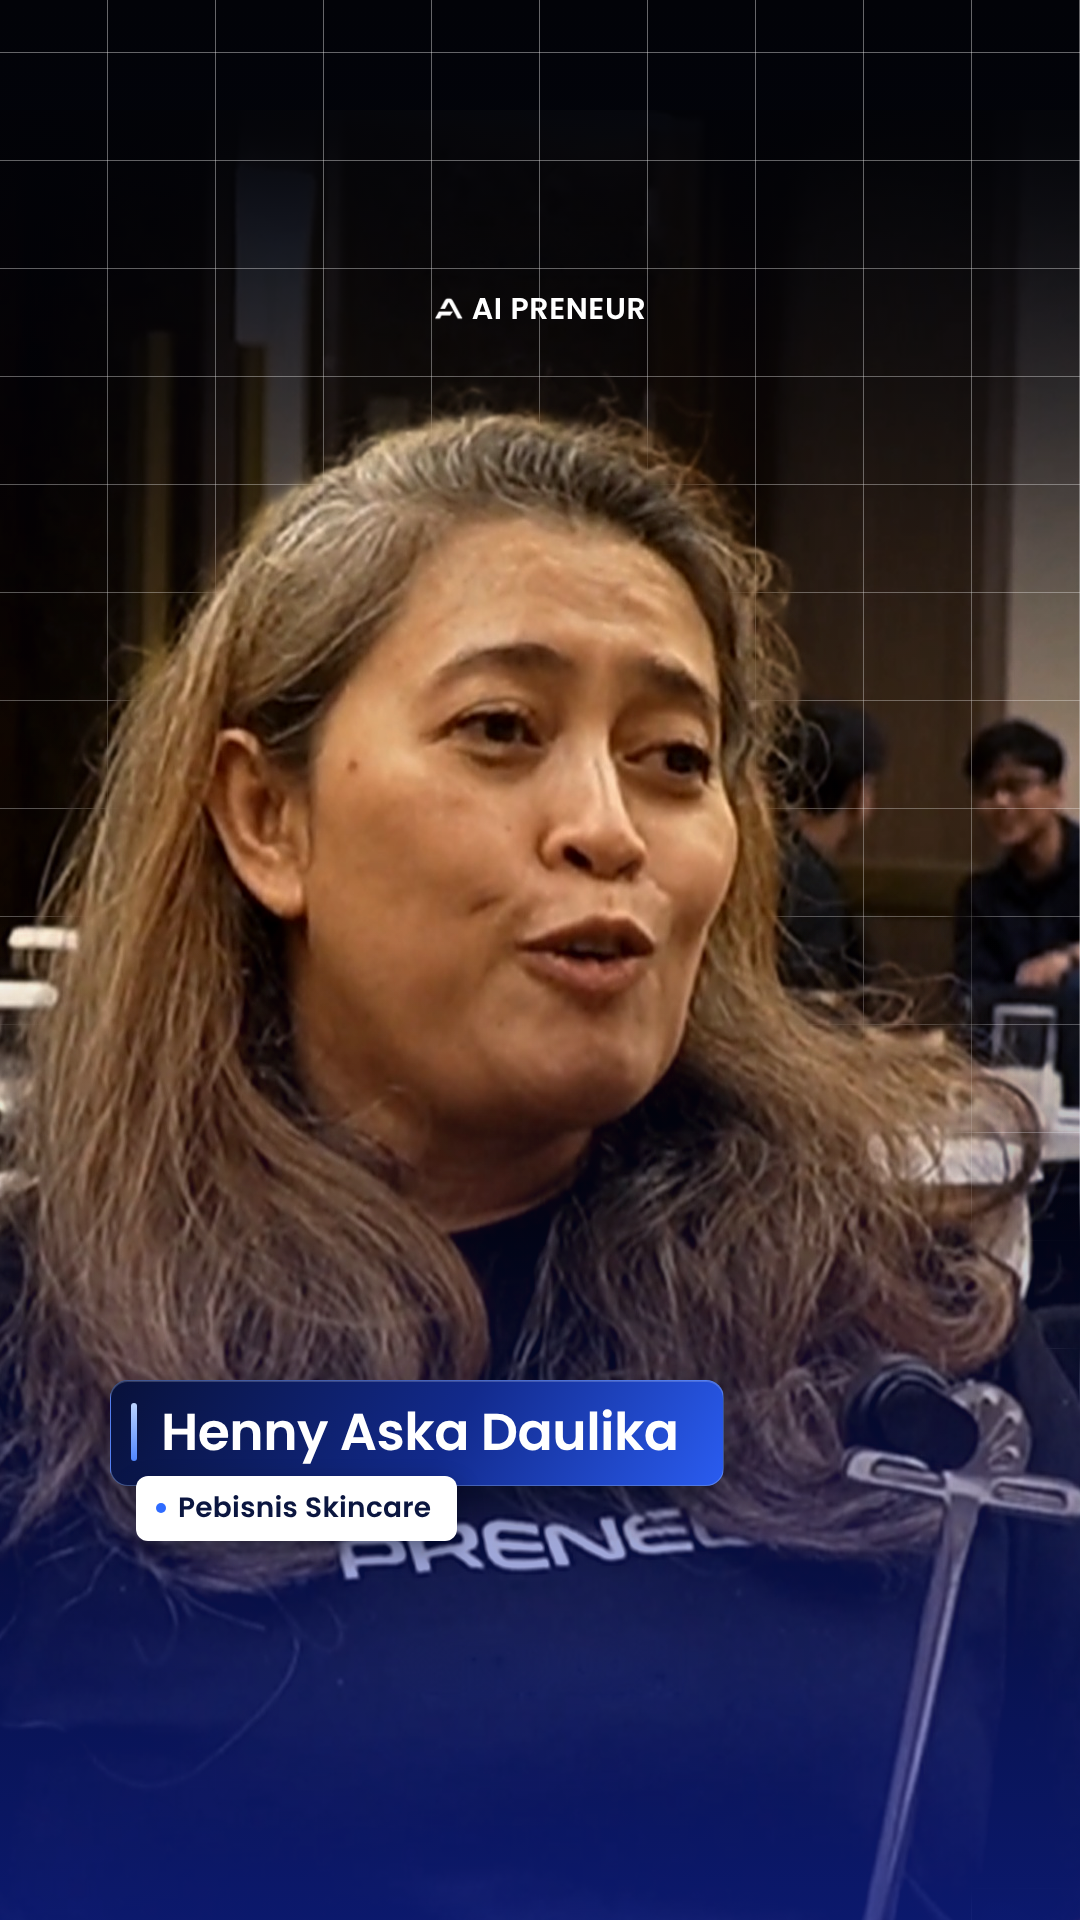
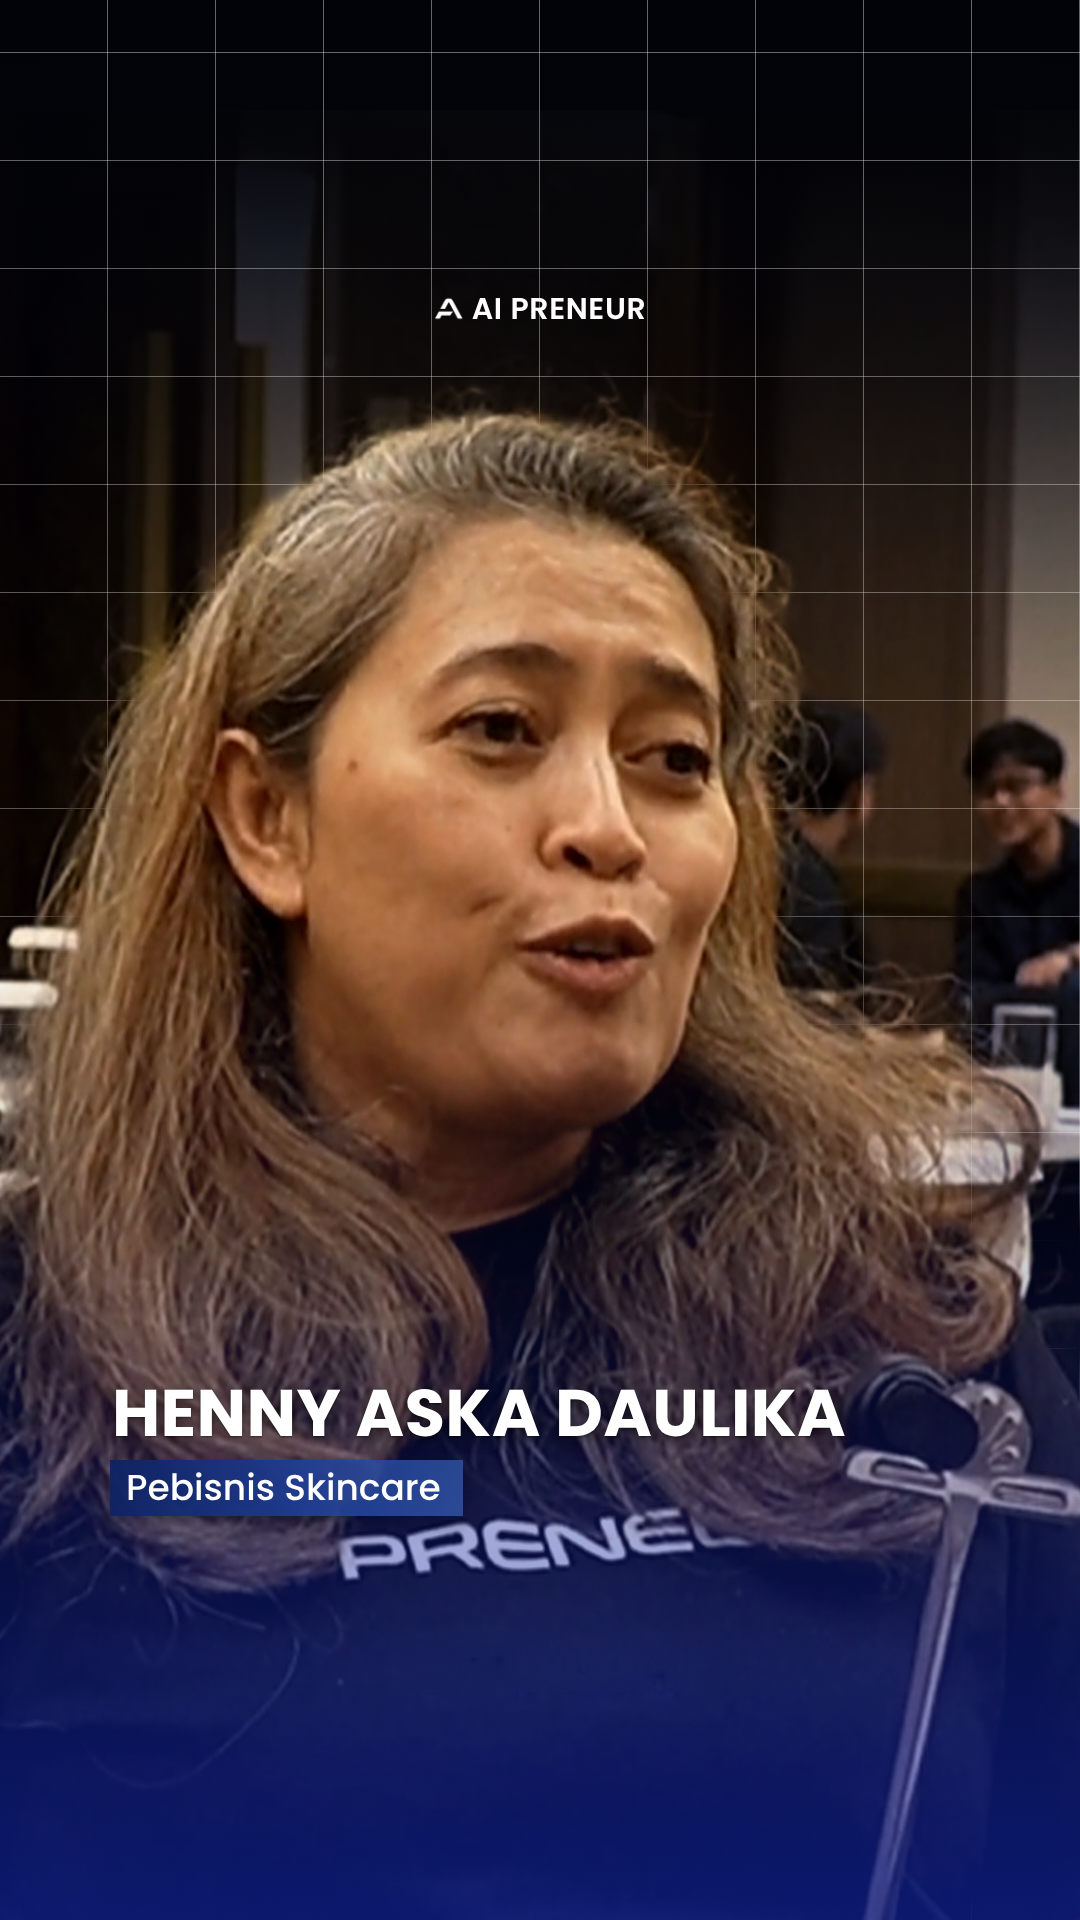
Thumbnail: name tag in bold-caps + gradient bar style (old card kept as thumb_v1_card.html)
Claude-Session: https://claude.ai/code/session_01FYKeHQysKjzco9uu7WCLcY

Changed region(s): [[0.0917, 0.7188, 0.7944, 0.8125]]

diff --git a/thumbnail-name-card/thumb_v1_card.html b/thumbnail-name-card/thumb_v1_card.html
@@ -1,0 +1,52 @@
+<!doctype html><html><head><meta charset="utf-8">
+<style>
+@font-face{font-family:Poppins;src:url(fonts/poppins400.woff2);font-weight:400}
+@font-face{font-family:Poppins;src:url(fonts/poppins500.woff2);font-weight:500}
+@font-face{font-family:Poppins;src:url(fonts/poppins600.woff2);font-weight:600}
+@font-face{font-family:Poppins;src:url(fonts/poppins700.woff2);font-weight:700}
+:root{--navy:#070d26;--navy2:#0b1640;--blue:#2f6bff;--sky:#9cc0ff}
+*{margin:0;box-sizing:border-box}
+body{width:1080px;height:1920px;overflow:hidden;background:var(--navy);font-family:Poppins,sans-serif}
+.stage{position:relative;width:1080px;height:1920px;overflow:hidden;background:var(--navy)}
+.photo{position:absolute;left:-54px;top:110px;width:1188px;filter:saturate(.82) contrast(1.06) brightness(.96)}
+/* cool navy grade over the warm room */
+.tint{position:absolute;inset:0;background:#1a2f6e;mix-blend-mode:soft-light;opacity:.55}
+.person{position:absolute;left:-54px;top:110px;width:1188px;filter:saturate(.82) contrast(1.06) brightness(.98)}
+/* top: black fade over the room only */
+.top{position:absolute;inset:0;background:
+  linear-gradient(180deg,#020308 0%,rgba(2,3,8,.92) 7%,rgba(2,3,10,.62) 16%,rgba(2,3,10,.3) 28%,rgba(2,3,10,.12) 40%,rgba(2,3,10,.12) 100%),
+  radial-gradient(120% 70% at 50% 45%,rgba(2,4,14,0) 55%,rgba(2,4,14,.45) 100%)}
+/* grid sits behind the person */
+.grid{position:absolute;inset:0;
+  background-image:linear-gradient(rgba(255,255,255,.42) 1.5px,transparent 1.5px),linear-gradient(90deg,rgba(255,255,255,.42) 1.5px,transparent 1.5px);
+  background-size:108px 108px;background-position:-1px 52px;
+  -webkit-mask-image:linear-gradient(180deg,rgba(0,0,0,.95) 0%,rgba(0,0,0,.75) 40%,rgba(0,0,0,.7) 100%)}
+/* bottom: see-through royal blue, strongest at the bottom edge, gone by mid-frame */
+.bottom{position:absolute;inset:0;background:
+  linear-gradient(0deg,rgba(18,40,175,.62) 0%,rgba(18,40,175,.48) 12%,rgba(14,32,150,.3) 26%,rgba(10,24,120,.14) 38%,rgba(8,18,90,0) 52%)}
+.logo{position:absolute;top:286px;left:0;right:0;display:flex;justify-content:center;align-items:center;gap:2px;
+  color:#fff;font-weight:600;font-size:30px;letter-spacing:.02em}
+.logo img{height:30px;margin-right:6px;filter:brightness(1.4)}
+.name{position:absolute;left:110px;top:1380px;display:flex;flex-direction:column;align-items:flex-start}
+.card{position:relative;padding:22px 44px 24px 50px;border-radius:18px;
+  background:linear-gradient(120deg,#08113a 0%,#122a8c 55%,#2a5cf0 100%);
+  border:1.5px solid rgba(156,192,255,.38);box-shadow:0 18px 40px rgba(2,6,22,.55),inset 0 1px 0 rgba(255,255,255,.18)}
+.card::before{content:"";position:absolute;left:20px;top:22px;bottom:24px;width:6px;border-radius:4px;background:linear-gradient(180deg,#bcd4ff,#4f86ff)}
+.card h1{font-weight:600;font-size:52px;line-height:1.12;color:#fff;letter-spacing:-.01em;white-space:nowrap}
+.role{margin:-10px 0 0 26px;position:relative;z-index:2;display:flex;align-items:center;gap:12px;
+  padding:11px 26px 12px 20px;border-radius:12px;background:#fff;box-shadow:0 10px 24px rgba(2,6,22,.45)}
+.role i{width:10px;height:10px;border-radius:50%;background:var(--blue)}
+.role span{font-weight:600;font-size:28px;color:#0b1640;letter-spacing:.01em}
+.nologo .logo{display:none}
+</style></head><body>
+<div class="stage" id="stage">
+  <img class="photo" src="photo_up.jpg">
+  <div class="tint"></div><div class="top"></div><div class="grid"></div>
+  <img class="person" src="person.png">
+  <div class="bottom"></div>
+  <div class="logo"><img src="logo.png">AI PRENEUR</div>
+  <div class="name">
+    <div class="card"><h1>Henny Aska Daulika</h1></div>
+    <div class="role"><i></i><span>Pebisnis Skincare</span></div>
+  </div>
+</div></body></html>

diff --git a/thumbnail-name-card/thumb.html b/thumbnail-name-card/thumb.html
@@ -27,16 +27,13 @@ body{width:1080px;height:1920px;overflow:hidden;background:var(--navy);font-fami
 .logo{position:absolute;top:286px;left:0;right:0;display:flex;justify-content:center;align-items:center;gap:2px;
   color:#fff;font-weight:600;font-size:30px;letter-spacing:.02em}
 .logo img{height:30px;margin-right:6px;filter:brightness(1.4)}
-.name{position:absolute;left:110px;top:1380px;display:flex;flex-direction:column;align-items:flex-start}
-.card{position:relative;padding:22px 44px 24px 50px;border-radius:18px;
-  background:linear-gradient(120deg,#08113a 0%,#122a8c 55%,#2a5cf0 100%);
-  border:1.5px solid rgba(156,192,255,.38);box-shadow:0 18px 40px rgba(2,6,22,.55),inset 0 1px 0 rgba(255,255,255,.18)}
-.card::before{content:"";position:absolute;left:20px;top:22px;bottom:24px;width:6px;border-radius:4px;background:linear-gradient(180deg,#bcd4ff,#4f86ff)}
-.card h1{font-weight:600;font-size:52px;line-height:1.12;color:#fff;letter-spacing:-.01em;white-space:nowrap}
-.role{margin:-10px 0 0 26px;position:relative;z-index:2;display:flex;align-items:center;gap:12px;
-  padding:11px 26px 12px 20px;border-radius:12px;background:#fff;box-shadow:0 10px 24px rgba(2,6,22,.45)}
-.role i{width:10px;height:10px;border-radius:50%;background:var(--blue)}
-.role span{font-weight:600;font-size:28px;color:#0b1640;letter-spacing:.01em}
+.name{position:absolute;left:110px;top:1380px;display:flex;flex-direction:column;align-items:flex-start;gap:6px}
+/* name tag in the "NELSON" style: bold caps name, role on square navy-blue gradient bars */
+.name h1{font-weight:700;font-size:66px;line-height:1;letter-spacing:.005em;color:#fff;text-transform:uppercase;margin:0 0 8px 2px;
+  text-shadow:0 3px 14px rgba(0,0,0,.55),0 1px 2px rgba(0,0,0,.4)}
+.bar{display:inline-block;padding:7px 22px 8px 16px;font-weight:500;font-size:36px;line-height:1.15;color:#fff;
+  background:linear-gradient(90deg,rgba(14,34,98,.96) 0%,rgba(30,62,150,.9) 55%,rgba(52,92,180,.72) 100%);
+  box-shadow:0 8px 20px rgba(2,6,22,.35)}
 .nologo .logo{display:none}
 </style></head><body>
 <div class="stage" id="stage">
@@ -46,7 +43,7 @@ body{width:1080px;height:1920px;overflow:hidden;background:var(--navy);font-fami
   <div class="bottom"></div>
   <div class="logo"><img src="logo.png">AI PRENEUR</div>
   <div class="name">
-    <div class="card"><h1>Henny Aska Daulika</h1></div>
-    <div class="role"><i></i><span>Pebisnis Skincare</span></div>
+    <h1>Henny Aska Daulika</h1>
+    <span class="bar">Pebisnis Skincare</span>
   </div>
 </div></body></html>
